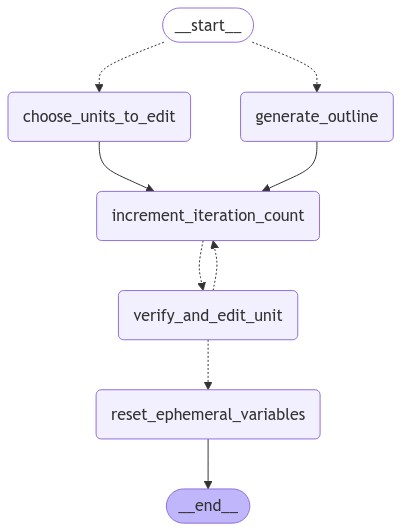
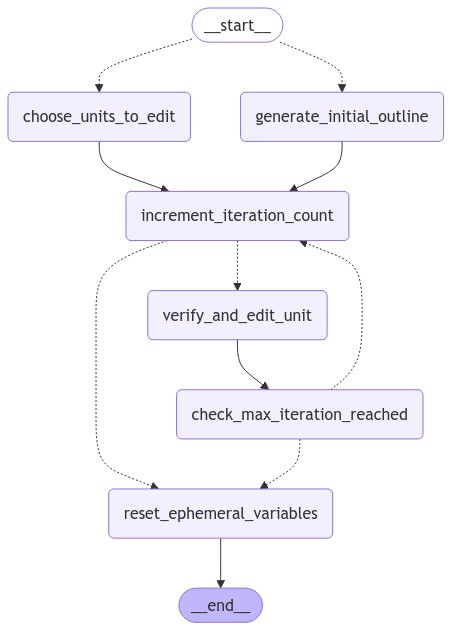
improve feedback loop

diff --git a/app/agents/subgraphs/outliner/graph.py b/app/agents/subgraphs/outliner/graph.py
@@ -30,35 +30,37 @@ VERIFICATION_ITERATION_MAX = int(os.getenv("VERIFICATION_ITERATION_MAX"))
 
 def router(state: OverallState) -> OverallState:
     print(f"\n>>> EDGE: router")
-    print("state.outline: ", state.outline)
     if state.outline is None:
-        print("===> generate_outline")
         return n(generate_initial_outline)
     else:
-        print("===> choose_units_to_edit")
         return n(choose_units_to_edit)
 
 
 def choose_units_to_edit(state: OverallState) -> OverallState:
     print("\n>>> EDGE: choose_units_to_edit")
 
-    #TODO: Didn't work well for feedback for the details of the PefectDay app.
+    # TODO: Didn't work well for feedback for the details of the PefectDay app.
     class FeedbackType(Enum):
         PLOTS = "The user wants to edit the plot of the story"
         CHARACTERS = "The user wants to edit the character of the story"
         BACKGROUND_SETTINGS = "The user wants to edit the background of the story"
-        OTHER = "The user wants to edit something else"
+        # OTHER = "The user wants to edit something else"
 
     class ClassificationResult(BaseModel):
         rationale: str
         feedback_types: List[FeedbackType]
 
     chain = ChatPromptTemplate.from_template(
-        "Decide which type of feedback the user gave.\n\n---\n\n**Feedback**: {feedback}\n\n---\n\n**Important Conditions that you must follow**\n\n1. If there is no feedback type that matches, choose OTHER. 2. Remember that you can choose multiple feedback types."
+        "**Context**: The user read a chapter of a story and gave feedback on it. Here is the information about the story:\n {outline}\n\n---\n\n**Feedback**: {feedback}\n\n---\n\n**Instructions**: Now we have to amend the story which is divided into several types of components. Your task is to decide which type of component the user feedback is about to.\n\n**Important Conditions that you must follow**\n\n1.Remember that you can choose multiple feedback types."
     ) | chat_model_small.with_structured_output(ClassificationResult)
 
     classification_result = chain.invoke(
-        {"feedback": state.user_feedback},
+        {
+            "outline": state.outline.model_dump_json(indent=1, exclude={"id"}).replace(
+                r'["{}\s]', ""
+            ),
+            "feedback": state.user_feedback,
+        },
     )
 
     feedback_types = [type.name for type in classification_result.feedback_types]
@@ -147,7 +149,7 @@ def generate_initial_outline(state: OverallState) -> OverallState:
         )
         return {
             "outline": outline,
-            "fields_to_edit": list(outline.__annotations__.keys()),
+            "fields_to_edit": [key.upper() for key in outline.__annotations__.keys()],
         }
 
     prompt = ChatPromptTemplate.from_messages(
@@ -193,7 +195,7 @@ def generate_initial_outline(state: OverallState) -> OverallState:
 
     return {
         "outline": outline,
-        "fields_to_edit": list(state.outline.__annotations__.keys()),
+        "fields_to_edit": [key.upper() for key in outline.__annotations__.keys()],
     }
 
 
@@ -203,19 +205,22 @@ def increment_iteration_count(state: OverallState) -> OverallState:
 
 
 class PrivateUnitState(BaseModel):
-    unit: Unit
-    reference: str
+    unit: Unit = None
+    reference: str = ""
+    user_feedback: str = ""
 
 
 def send_units_to_verify_edit_loop_in_parallel(state: OverallState) -> List[Send]:
     print("\n>>> EDGE: send_units_to_verify_edit_loop_in_parallel")
-    units_to_edit = [
-        unit
-        for field in state.outline.__annotations__
-        for unit in getattr(state.outline, field)
-        if field.upper() in state.fields_to_edit
-    ]
+    units_to_edit = []
+    for field in state.outline.__annotations__:
+        units = getattr(state.outline, field)
+        for unit in units:
+            if field.upper() in state.fields_to_edit:
+                units_to_edit.append(unit)
+
     if len(units_to_edit) == 0:
+        print("No units to edit, breaking the loop")
         return "reset_ephemeral_variables"
 
     return [
@@ -224,6 +229,7 @@ def send_units_to_verify_edit_loop_in_parallel(state: OverallState) -> List[Send
             PrivateUnitState(
                 unit=unit,
                 reference=state.user_profile + state.story_instruction,
+                user_feedback=state.user_feedback,
             ),
         )
         for unit in units_to_edit
@@ -268,13 +274,24 @@ def verify_and_edit_unit(state: PrivateUnitState) -> OverallState:
         ),
     }
     ExamineResult = create_model("ExamineResult", **class_fields)
+    if state.user_feedback != "":
+        template = "The user gave a feedback to change the following uint of the story. First, check if the unit is correctly described as the feedback suggests. If it is, response edit_instuction and edited_unit with empty string. If it is not, explain what to edit in edit_instuction and generate the edited_unit accordingly. \n\n---\n\n**Unit**: {unit}\n\n**Reference**: {reference}\n\n---\n\n**Feedback from the user**: {feedback}\n\n---\n\n**Important Conditions that you must follow**\n\n1. Only change the unit based on the feedback.\n2. Do not make up things that is not in the plot and information."
+    else:
+        template = "Check if the following unit of the outline corresponds to the reference\n\n---\n\n**Unit**: {unit}\n\n**Reference**: {reference}\n\n---\n\n**Feedback from the user**: {feedback}\n\n---\n\n**Important Conditions that you must follow**\n\n1. If the unit is correct, leave all other fields with an empty string.\n2. When editing, you must leave the id of the unit to an empty string."
 
     chain = ChatPromptTemplate.from_template(
-        "Check if the following unit of the outline corresponds to the reference\n\n---\n\n**Reference**: {reference}\n\n**Unit**: {unit}\n\n---\n\n**Important Conditions that you must follow**\n\n1. If the unit is correct, response edit_instuction and edited_unit with empty string.\n2. When editing, you must leave the id of the unit to an empty string."
+        template
     ) | chat_model_small.with_structured_output(ExamineResult)
-
     verification_result = chain.invoke(
-        {"unit": string_unit, "reference": state.reference},
+        {
+            "unit": string_unit,
+            "reference": state.reference,
+            "feedback": (
+                state.user_feedback
+                if state.user_feedback != ""
+                else "No feedback from the user"
+            ),
+        },
     )  # TODO: the reference should be curated by a retrieval system.
 
     if verification_result.is_correct:
@@ -285,8 +302,8 @@ def verify_and_edit_unit(state: PrivateUnitState) -> OverallState:
     return {"outline": [edited_unit]}
 
 
-def iterate_verify_and_edit_unit_until_max_count(state: OverallState):
-    print(f"\n>>> EDGE: iterate_verify_and_edit_unit_until_max_count")
+def check_max_iteration_reached(state: OverallState):
+    print(f"\n>>> EDGE: check_max_iteration_reached")
     if state.iteration_count + 1 >= VERIFICATION_ITERATION_MAX:
         return "reset_ephemeral_variables"
     else:
@@ -313,10 +330,14 @@ g.add_conditional_edges(
     path_map=[n(verify_and_edit_unit), "reset_ephemeral_variables"],
 )
 
+
 g.add_node(verify_and_edit_unit)
+g.add_edge(n(verify_and_edit_unit), n(check_max_iteration_reached))
+
+g.add_node(n(check_max_iteration_reached), RunnablePassthrough())
 g.add_conditional_edges(
-    n(verify_and_edit_unit),
-    iterate_verify_and_edit_unit_until_max_count,
+    n(check_max_iteration_reached),
+    check_max_iteration_reached,
     path_map=[n(increment_iteration_count), "reset_ephemeral_variables"],
 )
 
@@ -324,8 +345,8 @@ g.add_node(
     "reset_ephemeral_variables",
     lambda _: {
         "iteration_count": 0,
-        "fields_to_edit": None,
-        "user_feedback": None,
+        "fields_to_edit": [],
+        "user_feedback": "",
     },
 )
 g.add_edge("reset_ephemeral_variables", END)

diff --git a/app/agents/subgraphs/writer/graph.py b/app/agents/subgraphs/writer/graph.py
@@ -11,27 +11,27 @@ from langchain_core.prompts import ChatPromptTemplate
 def generate_chapter_content(state: OverallState):
     print(f"\n>>> NODE: generate_chapter_content")
     chain = ChatPromptTemplate.from_template(
-        "Write a content of the current chapter with the provided plots and information about the characters and background setting.\n\n---\n\n**Previous plot**: {previous_chapter_plot}\n\n**Current Plot**: {current_chapter_plot}\n\n**Future Plot**: {next_chapter_plot}\n\n**Information**: {information}\n\n---\n\n**Important Conditions that you must follow**\n\n1. Don't make up things that is not in the plot and information.\n2. Be creative and write in a way that is engaging and interesting to read.\n3. Leave the id as an empty string."
+        "Write a content of the current chapter with the provided plots and information about the characters and background setting.\n\n---\n\n**Previous plot**: {previous_chapter_plot}\n\n**Current Plot**: {current_chapter_plot}\n\n**Next Plot**: {next_chapter_plot}\n\n**Information**: {information}\n\n---\n\n**Important Conditions that you must follow**\n\n1. Be creative and write in a way that is engaging and interesting to read.\n2. Leave the id as an empty string.\n3. This is not a summary, so it should have dialogue and description and etc."
     ) | chat_model_small.with_structured_output(Chapter)
 
     chapter = chain.invoke(
         {
             "previous_chapter_plot": state.outline.plots[
-                state.current_chapter_num - 2
-            ].model_dump_json(exclude={"id"}),
+                state.current_chapter_num - 2 
+            ].model_dump_json(indent=1,exclude={"id"}).replace(r'["{}\s]', '') if state.current_chapter_num > 1 else "No previous chapter",
             "current_chapter_plot": state.outline.plots[
                 state.current_chapter_num - 1
-            ].model_dump_json(exclude={"id"}),
+            ].model_dump_json(indent=1,exclude={"id"}).replace(r'["{}\s]', ''),
             "next_chapter_plot": state.outline.plots[
                 state.current_chapter_num
-            ].model_dump_json(exclude={"id"}),
-            "information": ", ".join(
+            ].model_dump_json(indent=1,exclude={"id"}).replace(r'["{}\s]', ''),
+            "information": "\n".join(
                 [
-                    character.model_dump_json(exclude={"id"})
+                    character.model_dump_json(indent=1,exclude={"id"})
                     for character in state.outline.characters
                 ]
                 + [
-                    background_setting.model_dump_json(exclude={"id"})
+                    background_setting.model_dump_json(indent=1,exclude={"id"})
                     for background_setting in state.outline.background_settings
                 ]
             ),

diff --git a/app/agents/state_schema.py b/app/agents/state_schema.py
@@ -44,6 +44,9 @@ class Outline(BaseModel):
     background_settings: List[BackgroundSetting] = Field(
         description="The background setting of the story."
     )
+    genre: str = Field(
+        description="The genre of the story."
+    )
 
 class EditInstruction(BaseModel):
     unit: Unit
@@ -109,12 +112,12 @@ class OverallState(InputState, OutputState):
     # Ephemeral Variables
     # MUST be RESET after each loop
     iteration_count: int = 0
-    user_feedback: str = None
-    fields_to_edit: List[str] = None
+    user_feedback: str = ""
+    fields_to_edit: List[str] = []
 
     # Short Term Memory
     # MAY be UPDATED after each loop
-    current_chapter_num: int = 0
+    current_chapter_num: int = 1
 
     # Long Term Memory
     messages: Annotated[list[AnyMessage], add_messages]
